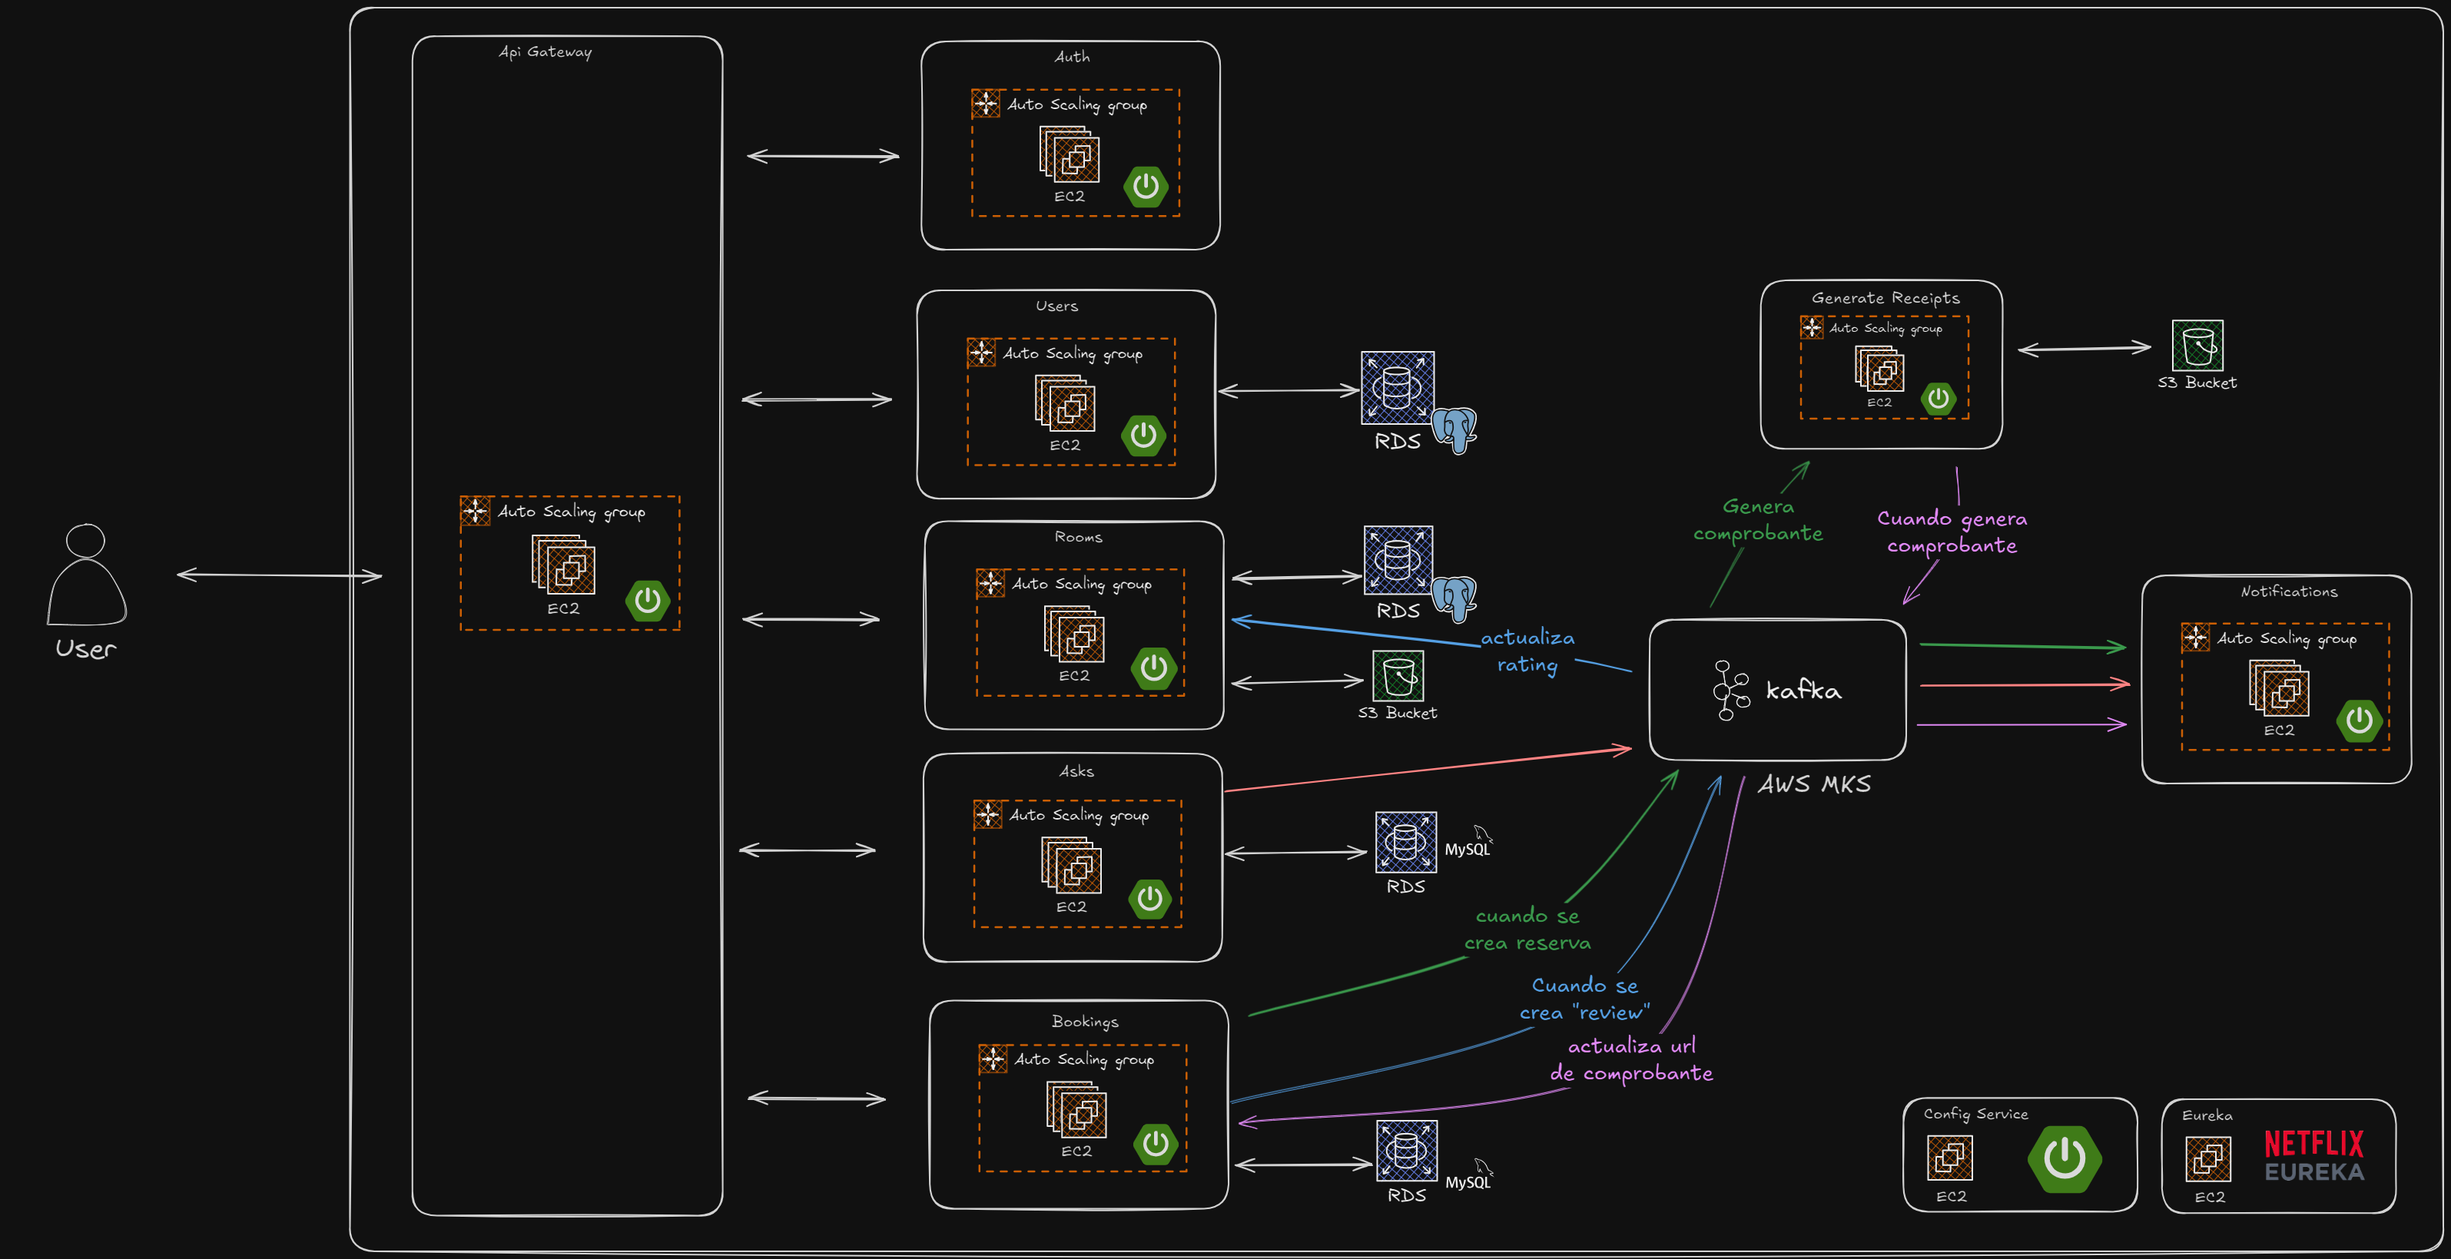
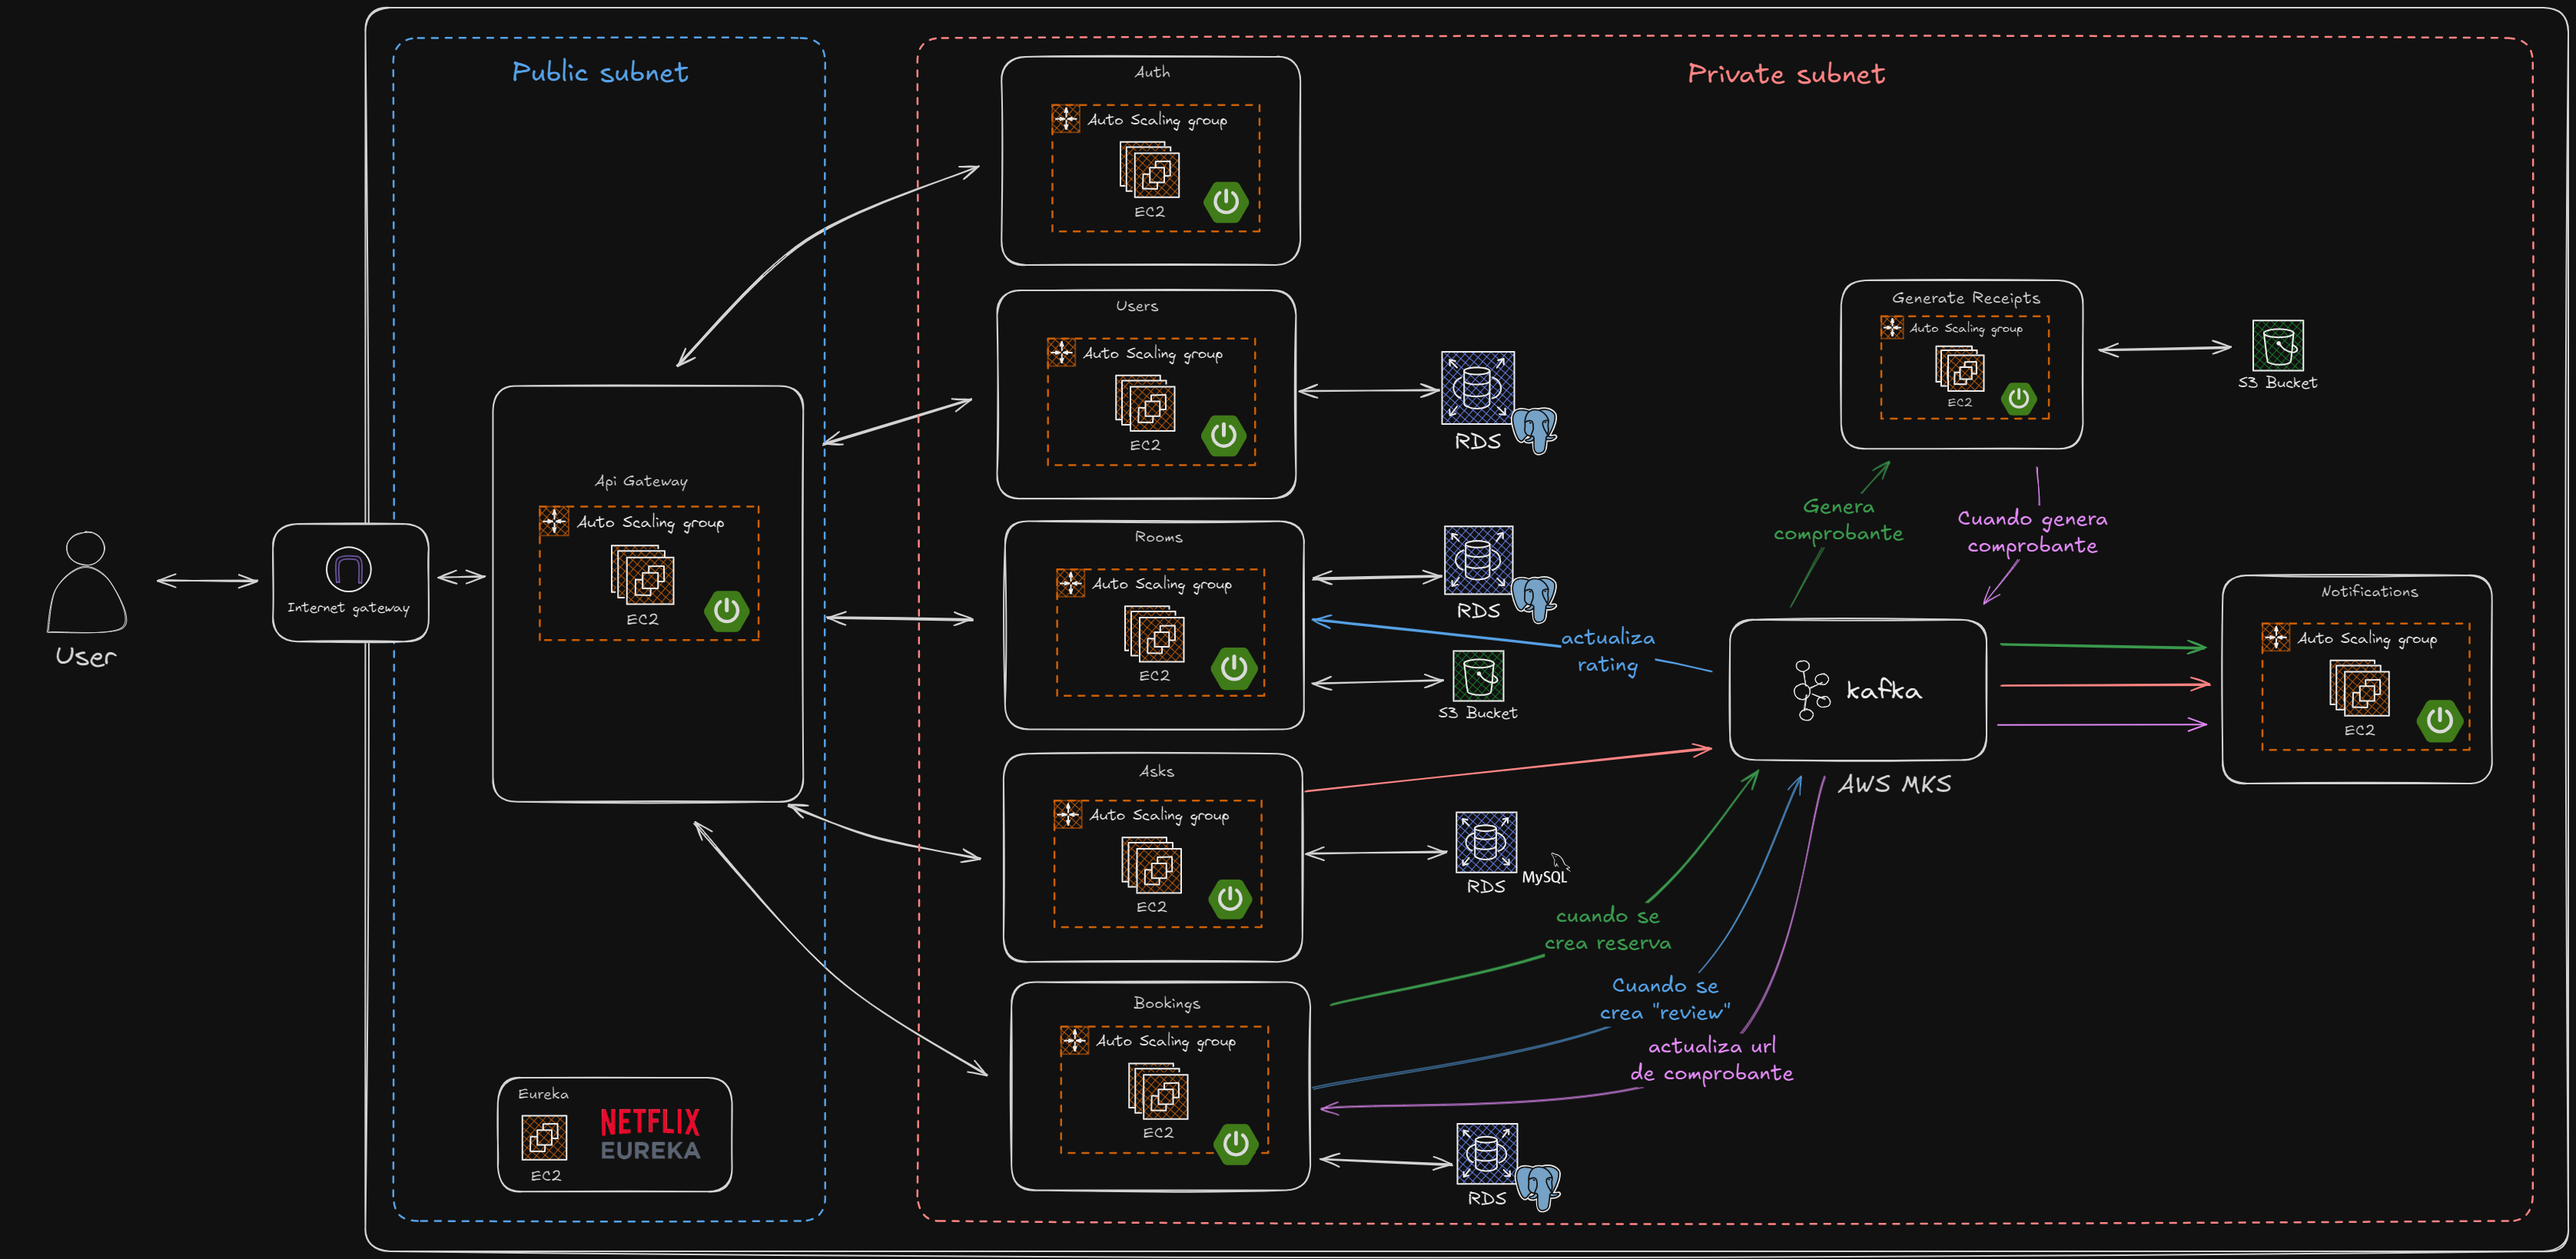
[doc] new architecture diagram and add steps to start app in local environment

diff --git a/profile/README.md b/profile/README.md
@@ -12,7 +12,8 @@ Este proyecto es una aplicación que permite gestionar los usuarios, reservas, f
   <li>Java</li>
   <li>Spring Boot</li>
   <li>Spring Cloud</li>
-  <li>Spring Cloud Config</li>
+  <li>Spring Cloud Gateway</li>
+  <li>Microservicios</li>
   <li>Eureka</li>
   <li>Actuator</li>
   <li>Resilience4j</li>
@@ -26,26 +27,46 @@ Este proyecto es una aplicación que permite gestionar los usuarios, reservas, f
   <li>Envío de emails</li>
   <li>Kafka</li>
   <li>Carga de imagenes</li>
-  <li>Microservicios</li>
-  <li>Spring Cloud Gateway</li>
-  <li>AWS S3</li>
-  <li>AWS MKS</li>
-  <li>AWS RDS</li>
-  <li>AWS EC2</li>
+  <li>AWS S3 (Almacenamiento de imagenes)</li>
+  <li>AWS MKS (Kafka)</li>
+  <li>AWS RDS (Bases de datos)</li>
+  <li>AWS EC2 (Servidores)</li>
   <li>AWS ASC</li>
-  <li>AWS X-Ray</li>
+  <li>AWS X-Ray (Monitorización)</li>
   <li>AWS Lambda</li>
   <li>Terraform</li>
   <li>Testing (JUnit, Mockito)</li>
   <li>Coverage (Jacoco)</li>
 </ul>
 
-## Levantar entorno de desarrollo
+## Levantar en local con Docker
+
+Requisitos:
+
+- Git
+- Docker
+- Credenciales de AWS
+- *Recomendado por lo menos 16gb de ram*
+
+#### 1. Clonar proyecto
 
 ```bash
 git clone https://github.com/spring-final-project/launcher.git
-git submodule update --init --recursive --remote
-
 cd launcher
+```
+
+#### 2. Asignar variables de entorno
+
+Renombrar el archivo `.env.template` a `.env` y completar las variables de entorno.
+
+#### 3. Clonar los microservicios
+
+```bash
+git submodule update --init --recursive --remote
+```
+
+#### 4. Levantar sistema completo
+
+```bash
 docker-compose up --build
 ```
